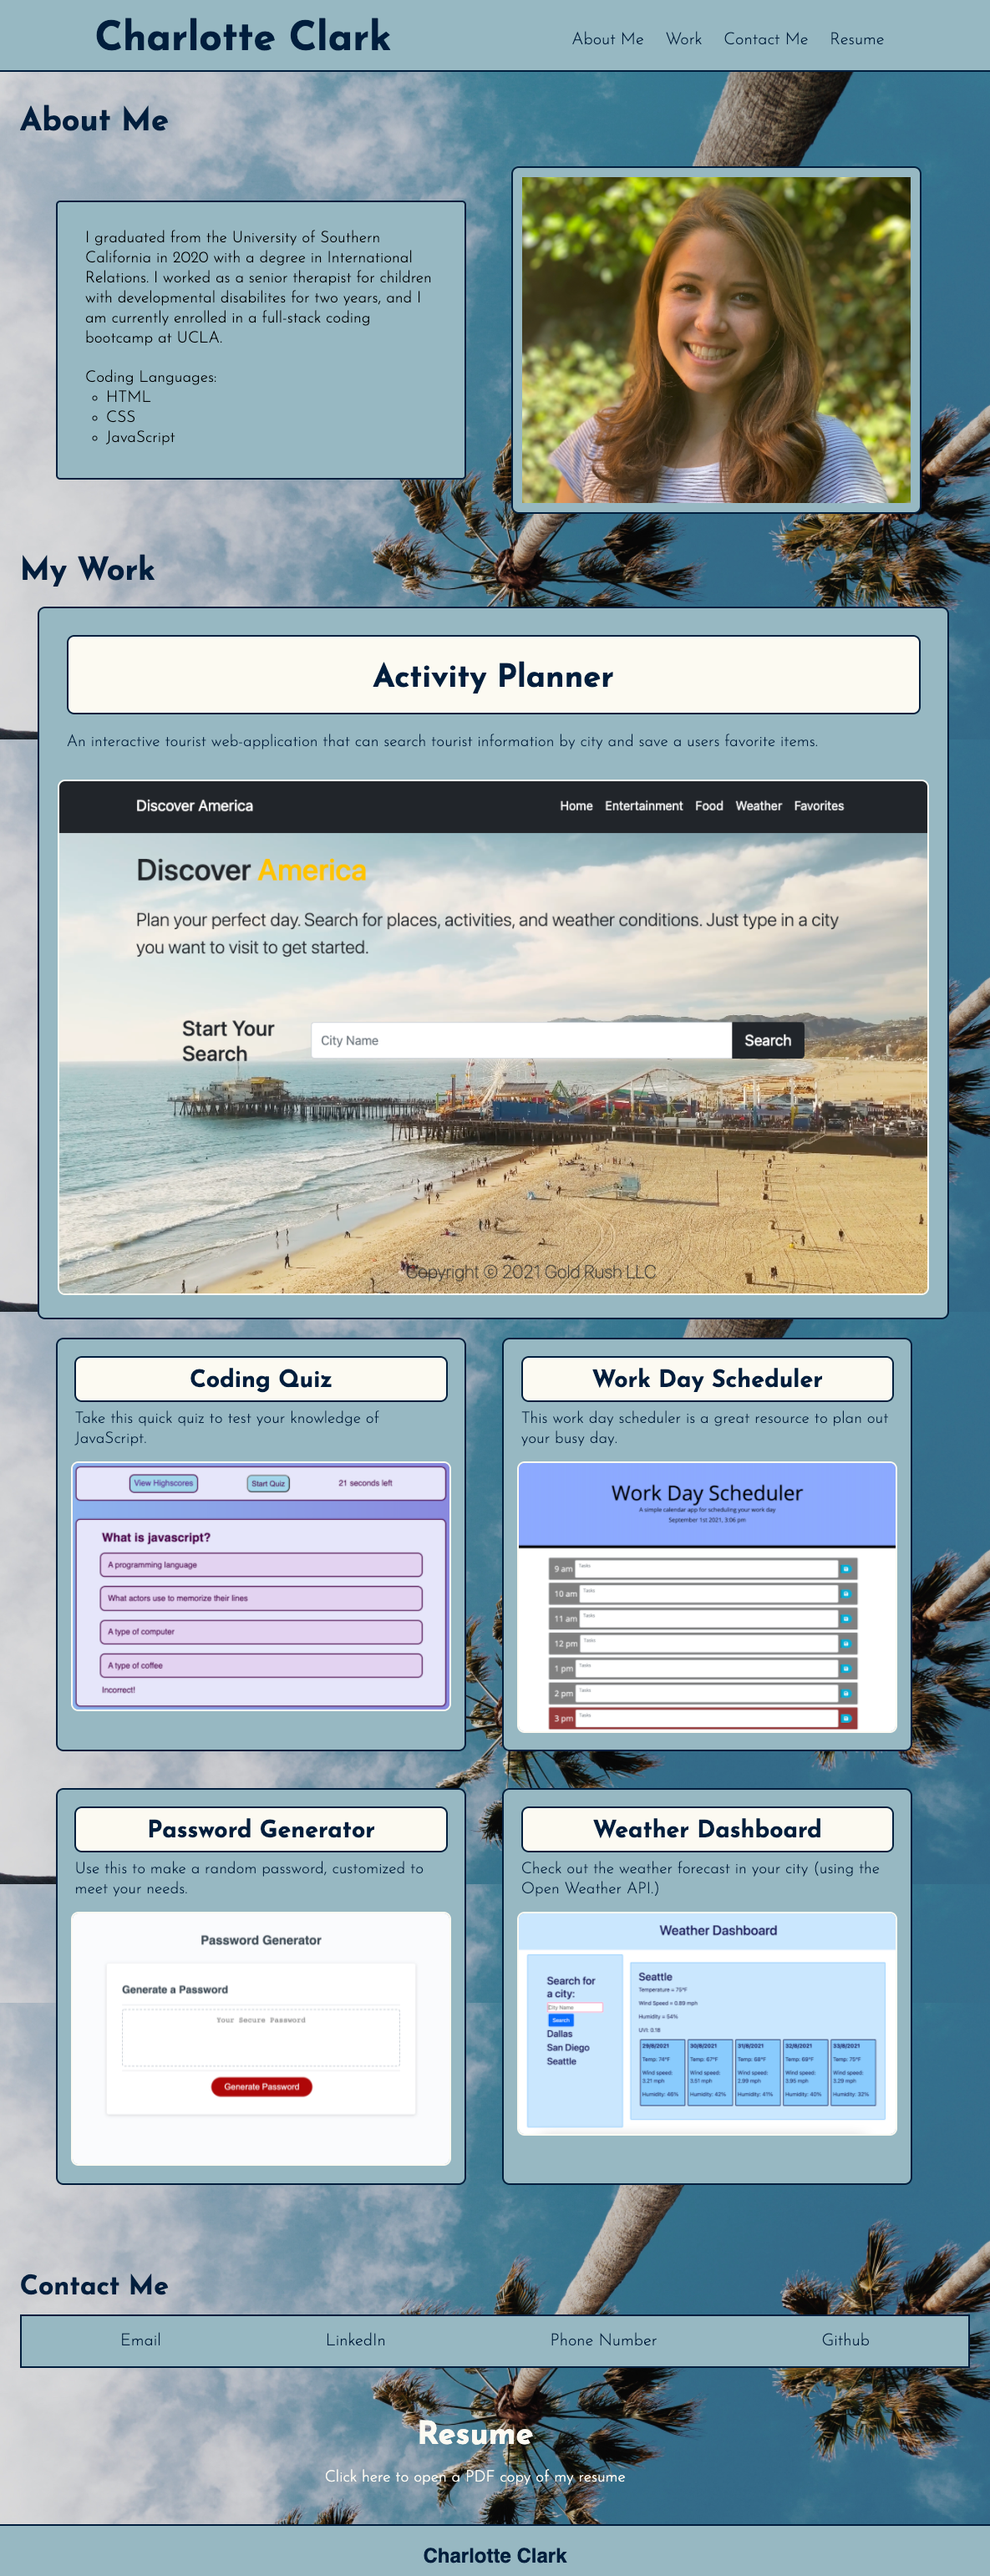
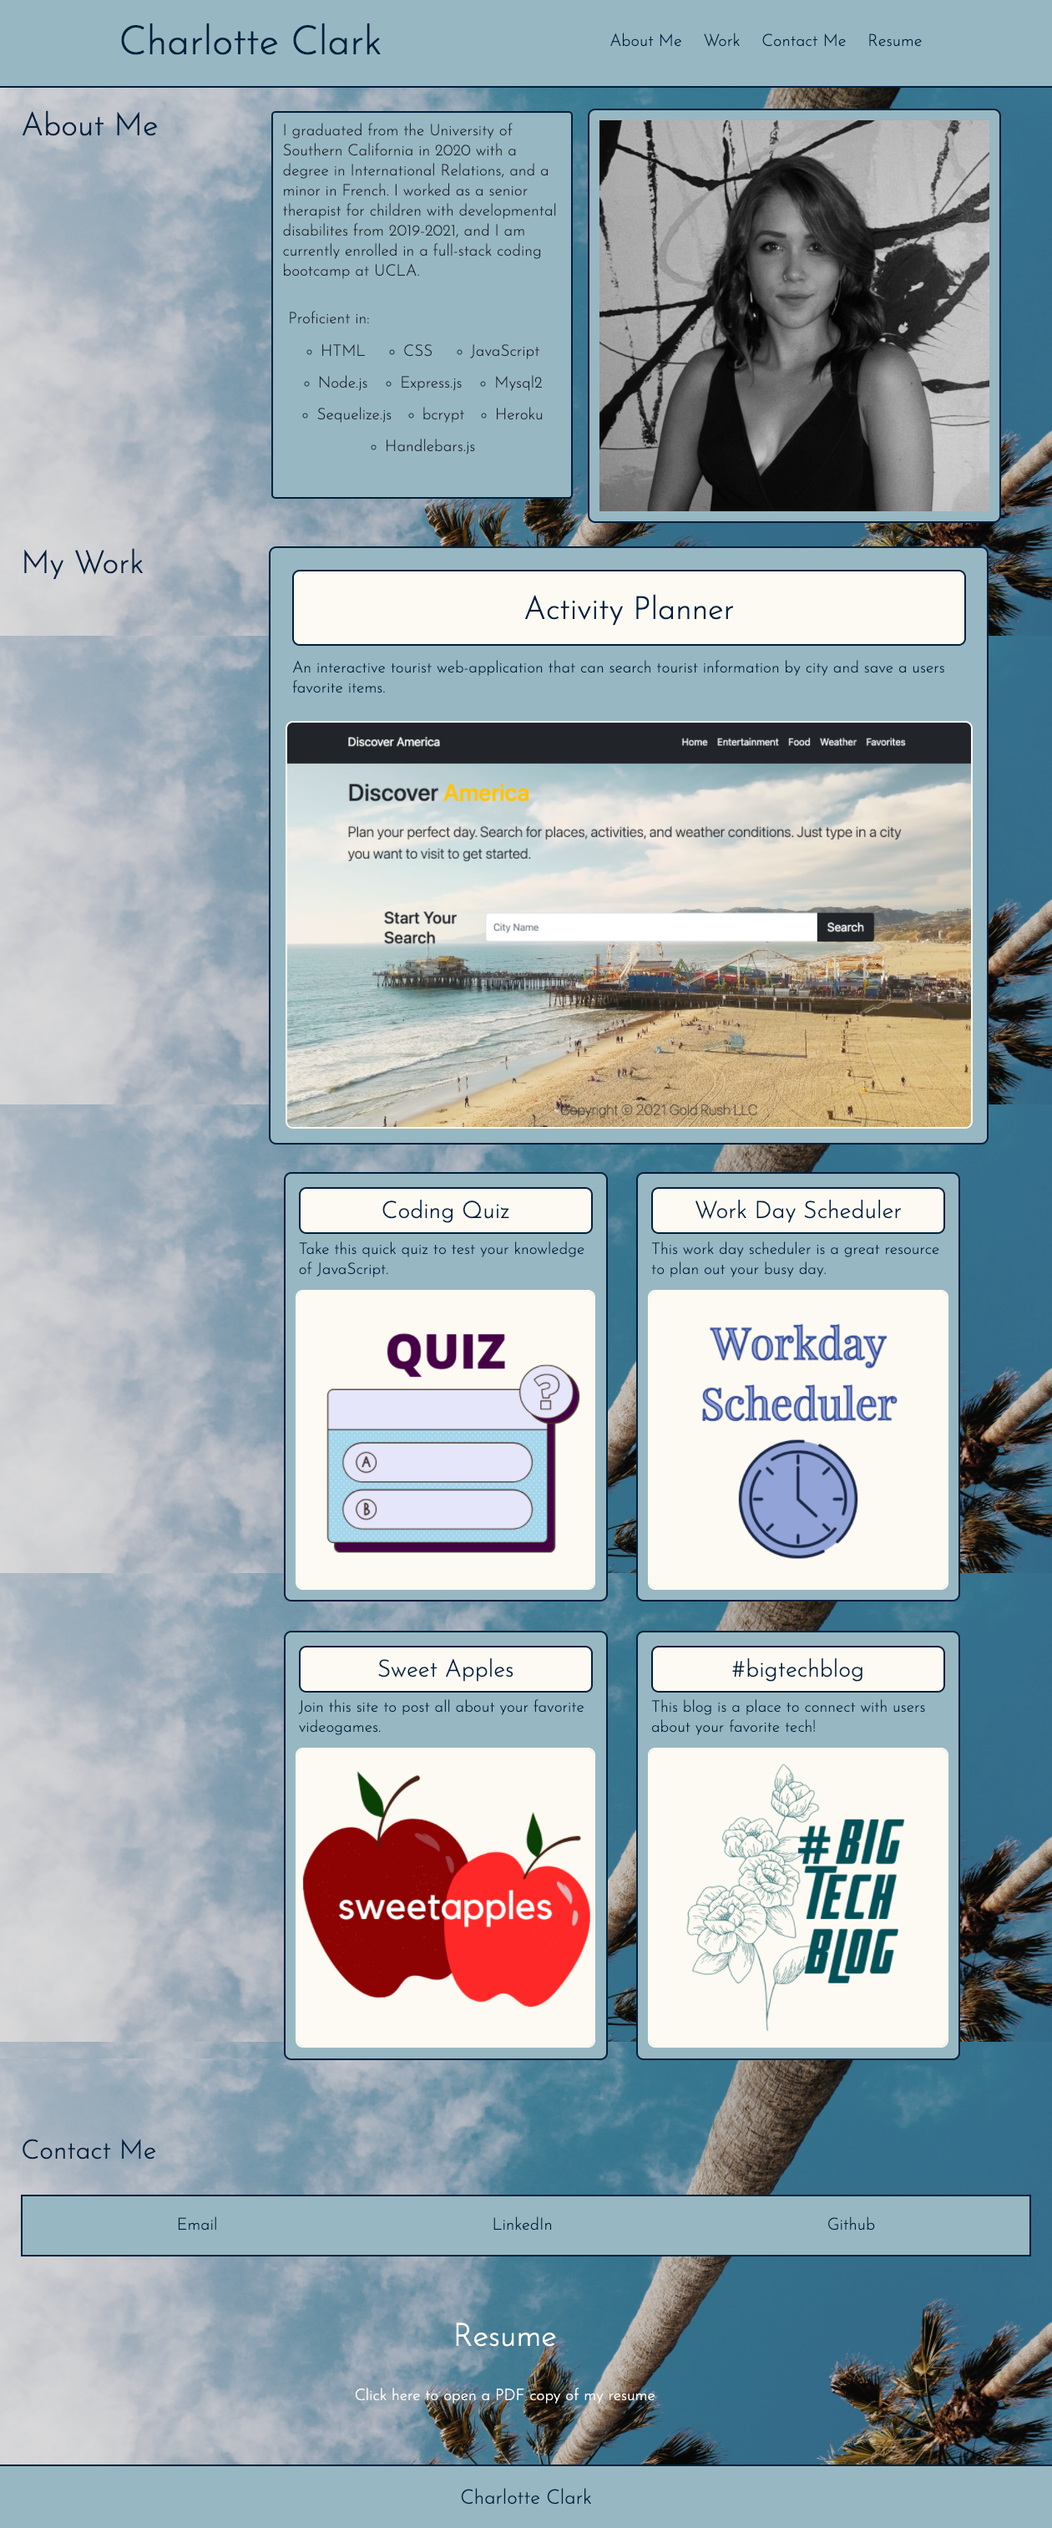
added bootstrap formatting

diff --git a/index.html b/index.html
@@ -6,6 +6,8 @@
     <meta http-equiv="X-UA-Compatible" content="IE=edge">
     <meta name="viewport" content="width=device-width, initial-scale=1.0">
     <link rel="stylesheet" href="./assets/reset.css">
+    <link rel="stylesheet" href="https://stackpath.bootstrapcdn.com/bootstrap/4.3.1/css/bootstrap.min.css"
+        integrity="sha384-ggOyR0iXCbMQv3Xipma34MD+dH/1fQ784/j6cY/iJTQUOhcWr7x9JvoRxT2MZw1T" crossorigin="anonymous">
     <link rel="stylesheet" href="./assets/style.css">
     <link rel="preconnect" href="https://fonts.googleapis.com">
     <link rel="preconnect" href="https://fonts.gstatic.com" crossorigin>
@@ -38,17 +40,20 @@
     </header>
 
     <main class="column">
-        <section>
+        <section class="row">
             <br id="aboutme">
-            <h2 class="dark-text">About Me</h2>
-            <div class="row">
+            <div class="col-lg-3 col-md-12 col-sm-12">
+                <h2 class="dark-text">About Me</h2>
+            </div>
+            <div class="col-lg-4 col-md-6 col-sm-12">
                 <div class="text">
                     <p> I graduated from the University of Southern California in 2020 with a degree in International
-                        Relations, and a minor in French. I worked as a senior therapist for children with developmental disabilites from 2019-2021, 
+                        Relations, and a minor in French. I worked as a senior therapist for children with developmental
+                        disabilites from 2019-2021,
                         and I am currently enrolled in a full-stack coding bootcamp at UCLA.</p>
                     <div class="column">
                         <ul id="language-list">Proficient in:
-                            <div class="row">
+                            <div class="row1">
                                 <li class="lang">HTML</li>
                                 <li class="lang">CSS</li>
                                 <li class="lang">JavaScript</li>
@@ -63,13 +68,16 @@
                         </ul>
                     </div>
                 </div>
-                <img id="charlottepicture" src='./assets/images/charlotte2.jpg' alt="photo of girl smiling" />
+            </div>
+            <img class="col-lg-5 col-md-6 col-sm-12" id="charlottepicture" src='./assets/images/charlotte2.jpg'
+                alt="picture of charlotte"/>
             </div>
         </section>
-        <section>
+        <br>
+        <section class="row">
             <br id="work">
-            <h2 class="dark-text">My Work</h2>
-            <div class="wrapper">
+            <h2 class="dark-text col-lg-3 col-md-12 col-sm-12">My Work</h2>
+            <div class="col-lg-9 col-md-12 col-sm-12">
                 <figure class="card1">
                     <a href="https://charlocc.github.io/activityplanner/">
                         <h2 class="cardheader">Activity Planner</h2>
@@ -100,16 +108,14 @@
                         <a href="https://ancient-plains-02897.herokuapp.com/">
                             <h3 class="cardheader">Sweet Apples</h3>
                             <p class="cardbody">Join this site to post all about your favorite videogames.</p>
-                            <img class="desert" src='./assets/images/sweetapples.png'
-                                alt="sweetapples logo" />
+                            <img class="desert" src='./assets/images/sweetapples.png' alt="sweetapples logo" />
                         </a>
                     </figure>
                     <figure class="card">
                         <a href="https://radiant-ocean-47580.herokuapp.com/">
                             <h3 class="cardheader">#bigtechblog</h3>
                             <p class="cardbody">This blog is a place to connect with users about your favorite tech!</p>
-                            <img class="desert" src='./assets/images/bigtechblog.png'
-                                alt="#bigtechblog logo" />
+                            <img class="desert" src='./assets/images/bigtechblog.png' alt="#bigtechblog logo" />
                         </a>
                     </figure>
                 </div>
@@ -139,7 +145,15 @@
     <footer>
         <h3>Charlotte Clark</h3>
     </footer>
-
+    <script src="https://code.jquery.com/jquery-3.3.1.slim.min.js"
+        integrity="sha384-q8i/X+965DzO0rT7abK41JStQIAqVgRVzpbzo5smXKp4YfRvH+8abtTE1Pi6jizo"
+        crossorigin="anonymous"></script>
+    <script src="https://cdnjs.cloudflare.com/ajax/libs/popper.js/1.14.7/umd/popper.min.js"
+        integrity="sha384-UO2eT0CpHqdSJQ6hJty5KVphtPhzWj9WO1clHTMGa3JDZwrnQq4sF86dIHNDz0W1"
+        crossorigin="anonymous"></script>
+    <script src="https://stackpath.bootstrapcdn.com/bootstrap/4.3.1/js/bootstrap.min.js"
+        integrity="sha384-JjSmVgyd0p3pXB1rRibZUAYoIIy6OrQ6VrjIEaFf/nJGzIxFDsf4x0xIM+B07jRM"
+        crossorigin="anonymous"></script>
 </body>
 
 </html>

diff --git a/assets/style.css b/assets/style.css
@@ -55,10 +55,6 @@ h3{
 }
 
 main {
-    display: flex;
-    flex: 1 1 0;
-    width: 100%;
-    flex-direction: column;
     font-family:'Josefin Sans', sans-serif;
     font-size: 19px;
 }
@@ -88,21 +84,15 @@ footer{
 
 
 #charlottepicture{
-    float: right;
-    position: relative;
-    margin: 1%;
     padding: 1%;
-    width: 28%; 
+    height: 10%;
     border: var(--darkblue) solid 2px;
     background-color: var(--lightblue);
     border-radius: 9px; 
-    align-self: right;
 }
 
 .text{
-    width: 68%;
-    float: left;
-    position: relative;
+    margin: 3px;
     background-color: var(--lightblue);
     padding: 3%;
     border-radius: 5px;
@@ -118,12 +108,11 @@ footer{
     margin: 5px;
     margin-left: 25px;
 }
-.row {
+.row1 {
     display: flex;
     flex-wrap: wrap;
     flex-direction: row;
     margin: 2%;
-    justify-content: space-around;
     align-items: center;
     width: 100%;
 }
@@ -142,7 +131,7 @@ footer{
     flex-direction: column;
     margin: 2%;
     align-items: center;
-    width: 92%;
+    width: 95%;
 }
 
 .justify-center {
@@ -172,8 +161,6 @@ footer{
     border-color: var(--darkblue);
     border: solid 2px;  
     border-radius: 9px;
-    margin-right: 5%;
-    flex: 1 0 100%;
 }
 
 .card1:hover {
@@ -238,7 +225,6 @@ aside{
     width: 100%;
     list-style-type: none;
     align-self: center;
-    /* font-family: 'Kaisei HarunoUmi', serif; */
     font-family:'Josefin Sans', sans-serif;
 }
 
